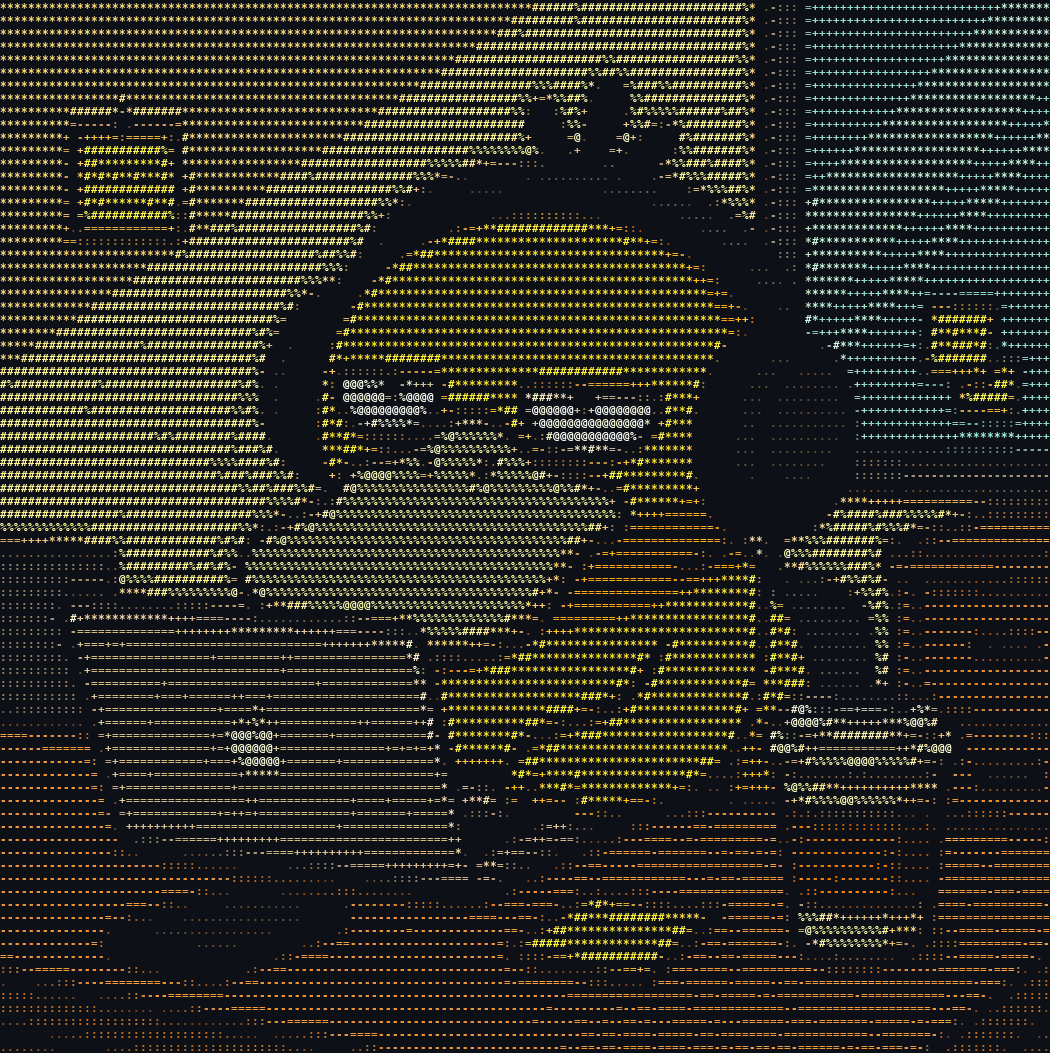
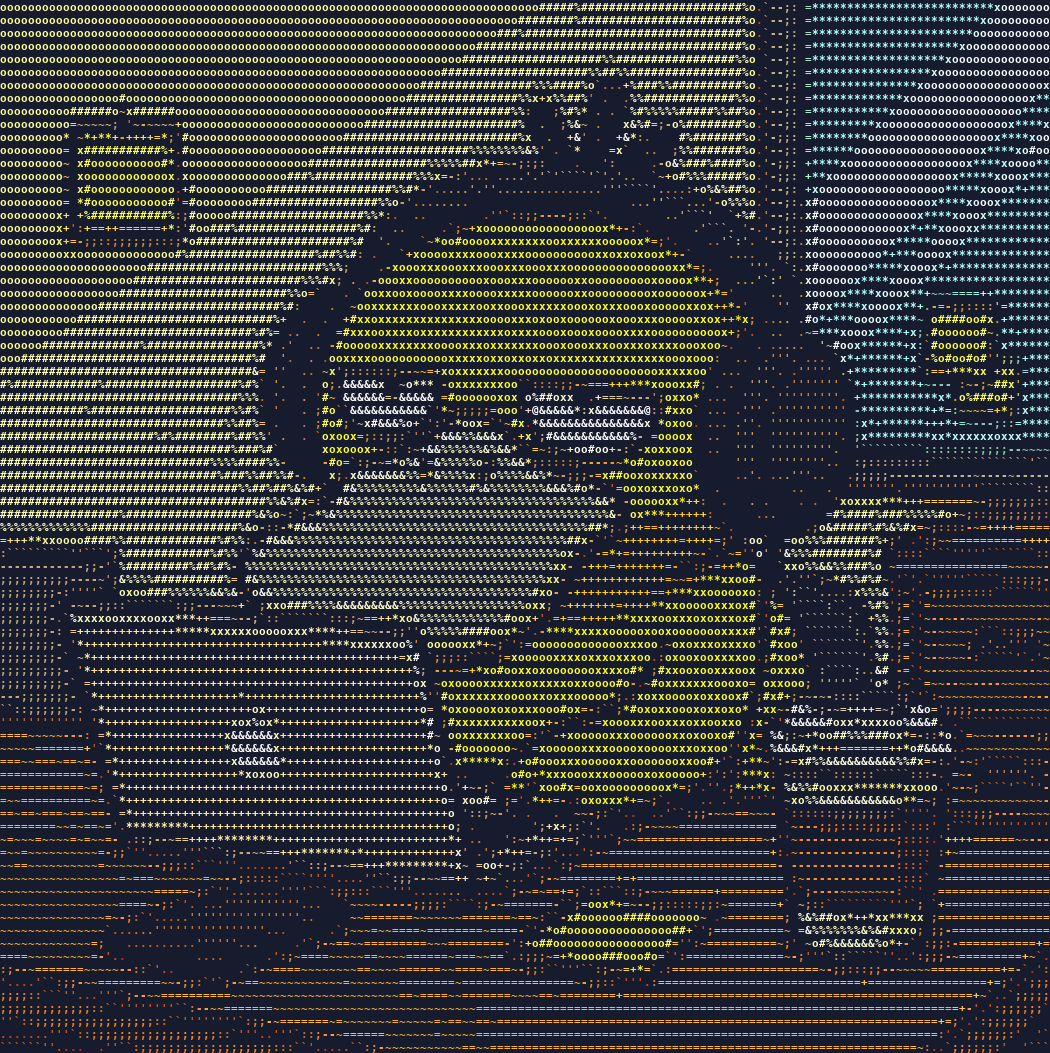
Brighten portrait and header background
Claude-Session: https://claude.ai/code/session_01UPnnSesu7jBRXmuY7mgi3M

diff --git a/scripts/make_assets.py b/scripts/make_assets.py
@@ -3,7 +3,7 @@
 import sys
 from PIL import Image, ImageDraw, ImageFont, ImageEnhance, ImageFilter
 
-BG = (13, 17, 23)
+BG = (22, 27, 45)
 MONO = "/usr/share/fonts/truetype/dejavu/DejaVuSansMono-Bold.ttf"
 SANS = "/usr/share/fonts/opentype/inter/Inter-ExtraBold.otf"
 
@@ -12,8 +12,8 @@ def portrait(src, out, cols=150, cw=7, ch=13):
     img = Image.open(src).convert("RGB")
     rows = round(cols * cw / ch)
     img = img.resize((cols, rows), Image.LANCZOS)
-    img = ImageEnhance.Color(img).enhance(1.35)
-    ramp = " .:-=+*#%@"
+    img = ImageEnhance.Contrast(ImageEnhance.Color(img).enhance(1.35)).enhance(1.25)
+    ramp = " .'`:;-~=+*xo#%&@"
     font = ImageFont.truetype(MONO, ch - 2)
     W, H = cols * cw, rows * ch
     im = Image.new("RGB", (W, H), BG)
@@ -22,10 +22,12 @@ def portrait(src, out, cols=150, cw=7, ch=13):
         for x in range(cols):
             r, g, b = img.getpixel((x, y))
             lum = (0.299 * r + 0.587 * g + 0.114 * b) / 255
-            c = ramp[int(min(1, lum ** 1.7 * 1.15) * (len(ramp) - 1))]
+            c = ramp[int(min(1, lum ** 1.15) * (len(ramp) - 1))]
             if c != " ":
-                k = 1.15
-                d.text((x * cw, y * ch), c, font=font, fill=(min(255, int(r * k)), min(255, int(g * k)), min(255, int(b * k))))
+                # brighten: lift dark inks so shadows (headphones, laptop) stay visible
+                m = max(r, g, b, 1)
+                k = max(1.25, 170 / m)
+                d.text((x * cw, y * ch), c, font=font, fill=(min(255, int(r * k) + 25), min(255, int(g * k) + 25), min(255, int(b * k) + 25)))
     im.save(out)
 
 
